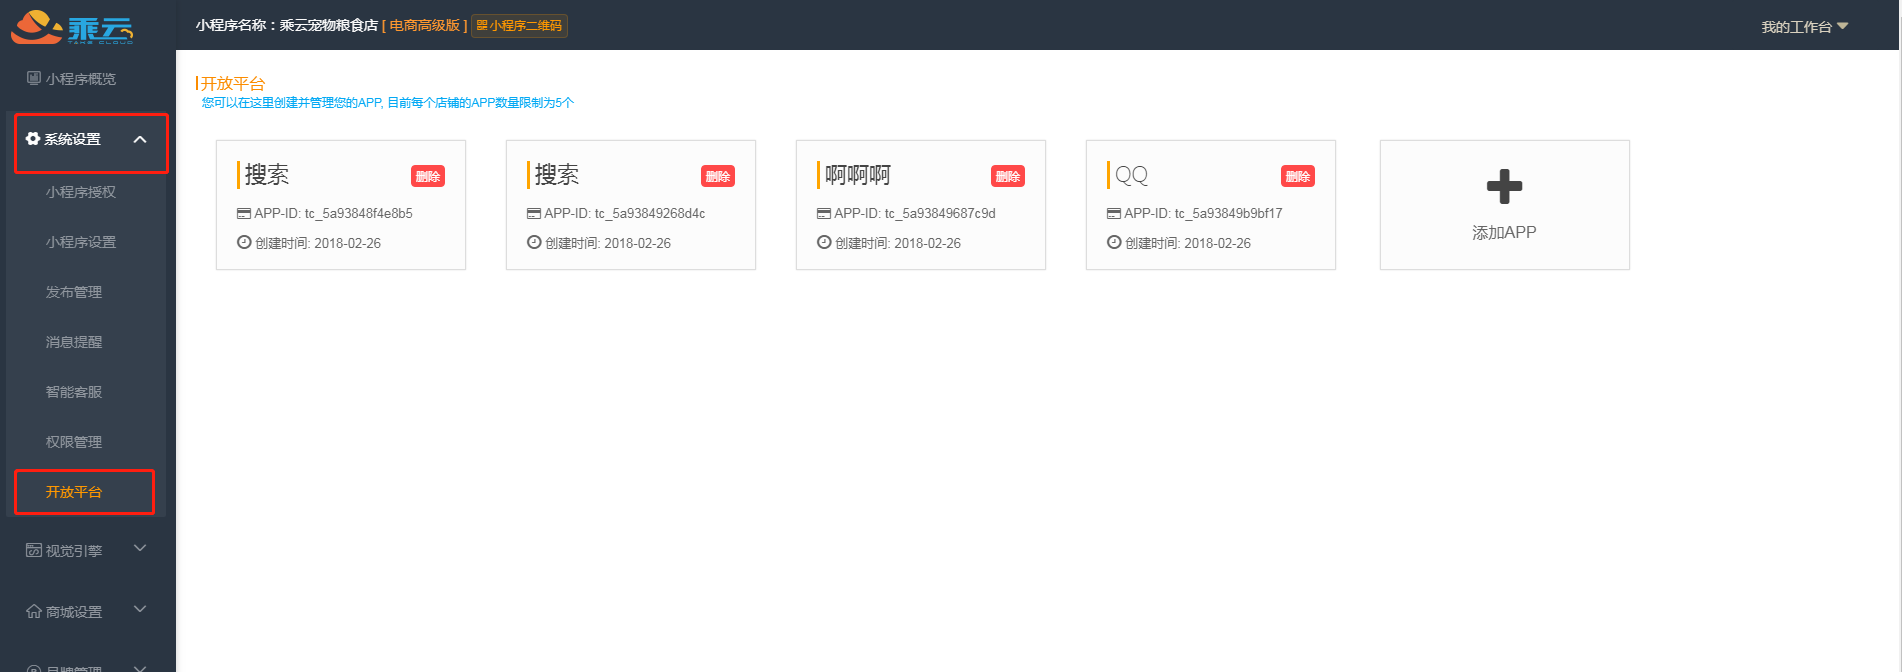
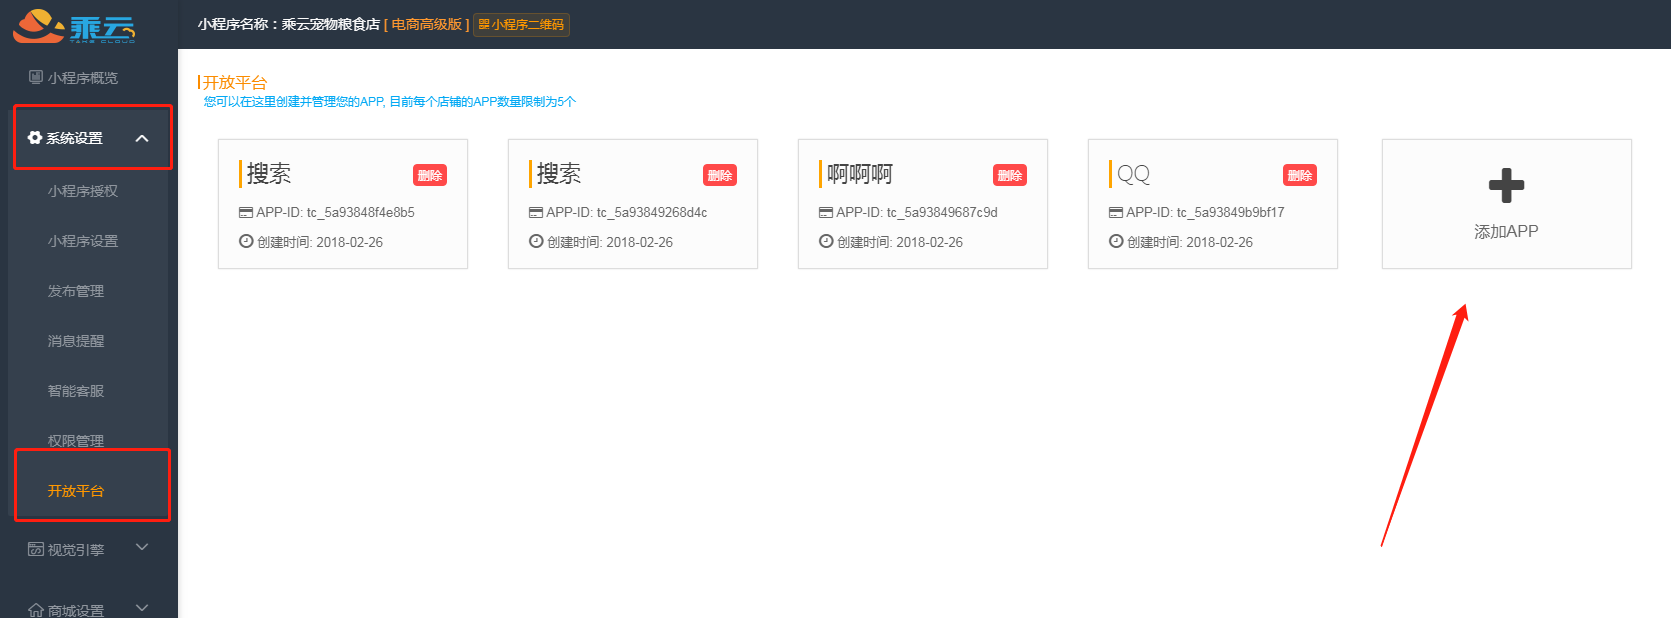
Updates assets/jianquan1.png
Auto commit by GitBook Editor

diff --git a/diao-yong-fang-fa/jie-kou-jian-quan.md b/diao-yong-fang-fa/jie-kou-jian-quan.md
@@ -14,7 +14,7 @@
 >
 > AppSecret 用于加密签名串和服务器端验证签名字符串的秘钥。
 
-`注意：你必须严格保管安全凭证，避免泄露！`
+**注意：你必须严格保管好安全凭证，避免泄露！**
 
 申请安全凭证的具体步骤如下：
 
@@ -22,7 +22,9 @@
 
 2）前往系统设置 &gt; 开放平台页面
 
-![](/assets/jianquan1.png)3）在开放平台页面，点击【添加APP】即可以创建一对AppId / AppSecret
+![](/assets/jianquan1.png)
+
+3）在开放平台页面，点击【添加APP】即可以创建一对AppId / AppSecret
 
 > 目前各个小程序最多可以拥有5对AppId / AppSecret。
 
